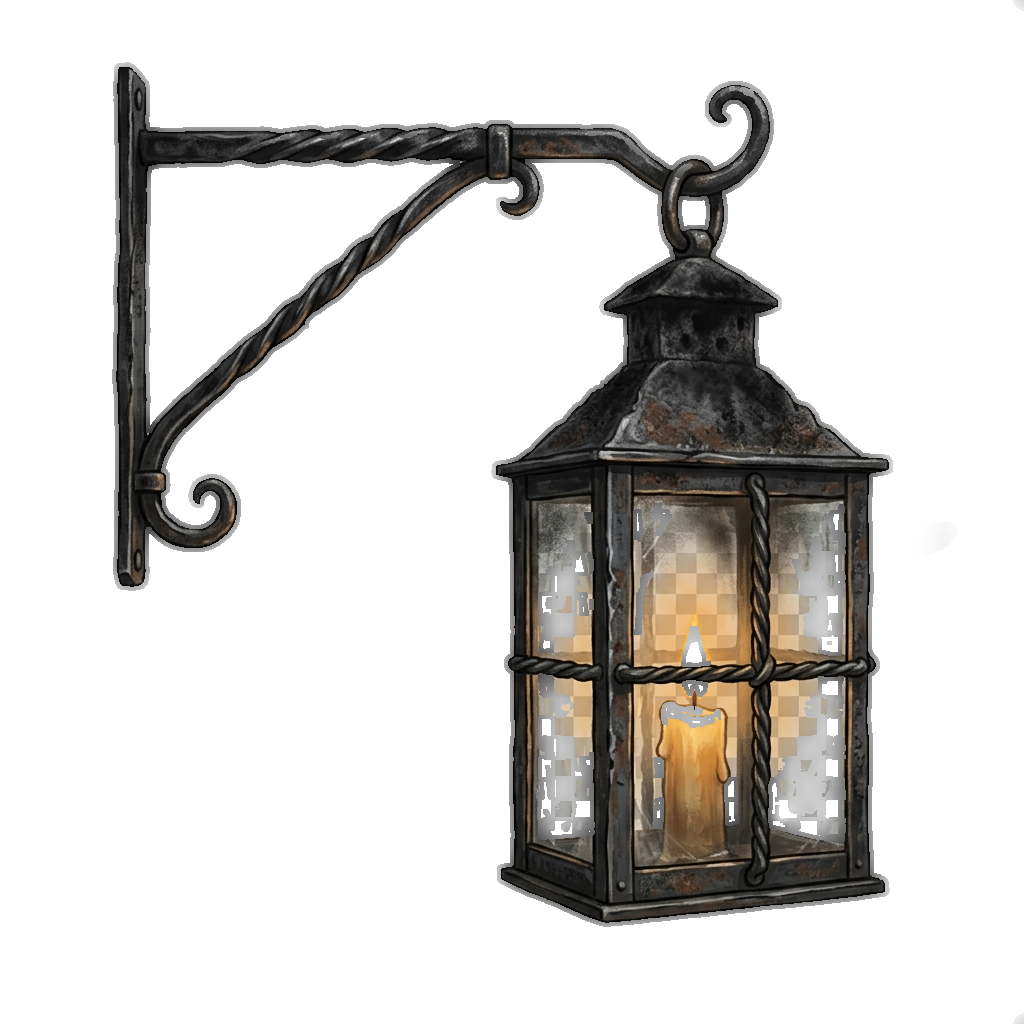
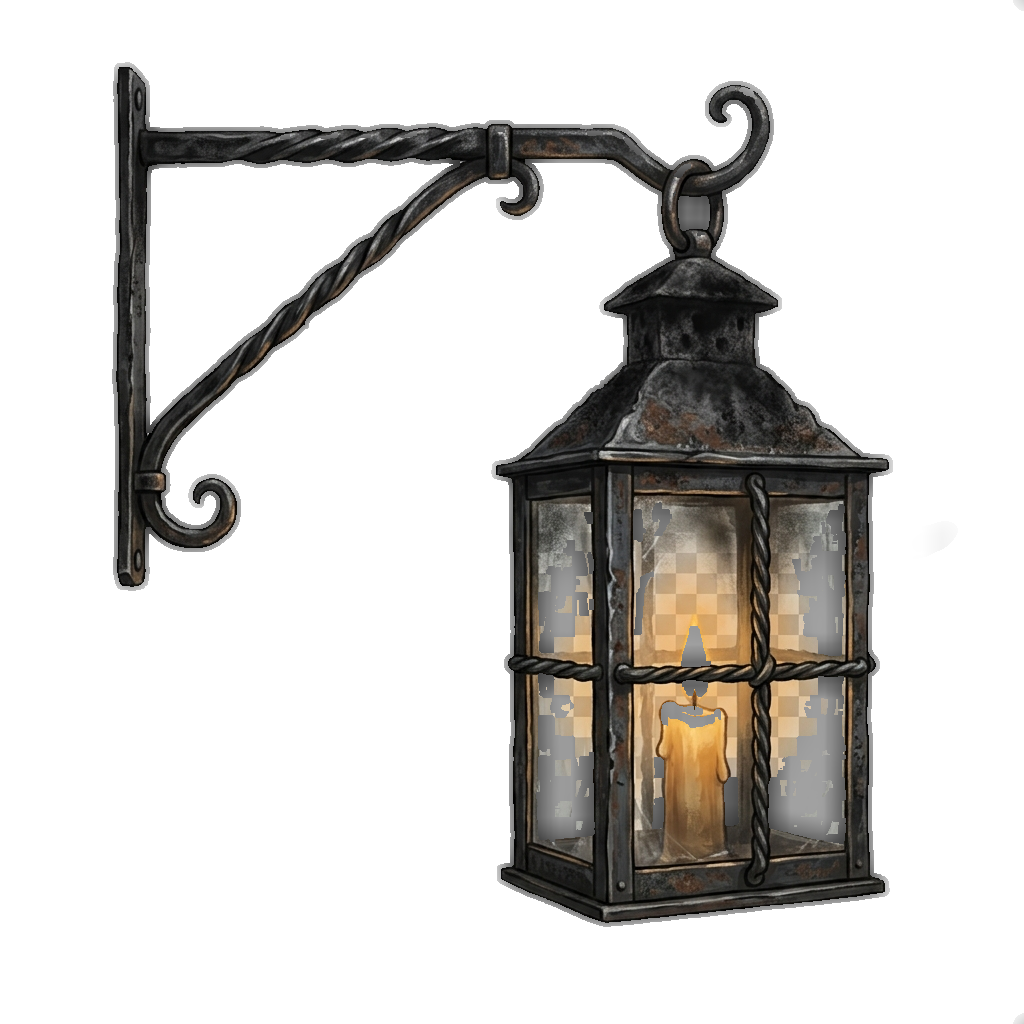
Corrige o z-fighting das fachadas (portas sumindo, janelas piscando) e ajusta lanterna e montanha
A CAUSA DAS PORTAS SUMIDAS E DAS JANELAS PISCANDO ERA A MESMA: o painel de
fachada e os decalques estavam no MESMO afastamento da parede (0,05), então
brigavam pelo mesmo pixel de profundidade. A porta da loja é desenhada depois,
mas empatava com o painel e perdia; a janela empatava e piscava conforme o
ângulo. O painel de fachada é uma PAREDE, não um adorno — agora fica rente
(0,02) e os decalques de verdade (janela, porta, hera, tabuleta) ficam à frente
dele. `addWallDecal` ganhou o recuo como parâmetro.

LANTERNA DE PAREDE: estava do tamanho de uma porta e plantada no meio da parede.
Diminuiu (1,8 → 1,35) e subiu (2,75 → 3,15), e a luz saiu de junto da parede p/
debaixo da luminária, que é de onde ela deveria vir.

O VIDRO DA LANTERNA mostrava o xadrez do fundo pintado — de longe passava por
vidro sujo, mas de perto era claramente um quadriculado. Agora o recorte fecha os
vãos internos da METADE DIREITA da arte (o corpo da luminária) e tira a cor da
média local; o triângulo vazado entre o braço e a mão-francesa fica na metade
esquerda e continua vazado. Sobrou um resto de trama fina no vidro, que lê como
vidro fosco.

MONTANHA PROTUBERANTE: as lascas de rocha do contorno irregular brotavam também
nas células que fazem fronteira com a rua, e na altura do olho — o maciço parecia
desabar por cima da cidade. Agora elas só aparecem nas células de dentro do
maciço, longe da rua.

Claude-Session: https://claude.ai/code/session_013WvcxhCgG4YoQ53hJyUeUZ

diff --git a/grimhollow/src/game/Game.ts b/grimhollow/src/game/Game.ts
@@ -2507,7 +2507,7 @@ export class Game {
           // montantes de madeira subindo dela. Vale p/ toda face de rua, inclusive
           // as de porta (a porta em si é desenhada em buildEstablishments).
           // painel de fachada colado na face (um por face, sem ladrilhar)
-          this.addWallDecal(c, r, dc, dr, facadeMat, CELL, WALL_H, WALL_H / 2);
+          this.addWallDecal(c, r, dc, dr, facadeMat, CELL, WALL_H, WALL_H / 2, 0.02);
           // sem enxaimel de código: a pedra lavrada já traz a cimalha pintada
           this.facadeTrim(c, r, dc, dr, timberMat, plinthMat, hash, false);
           if (porta) continue;
@@ -2525,7 +2525,7 @@ export class Game {
             // luminária pende dele. A arte é vista DE LADO, então o plano fica
             // perpendicular à fachada, como as tabuletas das lojas.
             this.addLanternaParede(c, r, dc, dr, lanternMat);
-            this.glowLight(fx + dc * 0.55, 2.45, fz + dr * 0.55, 0xffb45a, 3.4, 11);
+            this.glowLight(fx + dc * 1.05, 2.85, fz + dr * 1.05, 0xffb45a, 3.4, 11);
             void torchMat;
           } else if (roll < 0.74) {
             this.addWallDecal(c, r, dc, dr, ivyMat, 2.3, 1.5, 1.05);
@@ -2604,15 +2604,17 @@ export class Game {
     // precisa (a) ter a normal AO LONGO da fachada — não apontando p/ ela — e
     // (b) começar encostado na parede e crescer p/ a rua. Na versão anterior eu
     // errei os dois e o braço ficava enterrado na pedra.
-    const L = 1.8;              // avanço sobre a rua
-    const H = 1.8;
+    // menor e mais alta que na 1ª versão: a lanterna ficava do tamanho de uma
+    // porta, plantada no meio da parede
+    const L = 1.35;             // avanço sobre a rua
+    const H = 1.35;
     const pl = new THREE.Mesh(new THREE.PlaneGeometry(L, H), mat);
     // com rotação θ, o +X local vira (cos θ, 0, −sen θ). Quero +X = normal da
     // parede (dc,0,dr), p/ a borda esquerda do desenho encostar nela.
     pl.rotation.y = Math.atan2(-dr, dc);
     const fx = c * CELL + dc * (CELL / 2 + 0.04);
     const fz = r * CELL + dr * (CELL / 2 + 0.04);
-    pl.position.set(fx + dc * (L / 2), 2.75, fz + dr * (L / 2));
+    pl.position.set(fx + dc * (L / 2), 3.15, fz + dr * (L / 2));
     pl.renderOrder = 4;
     this.world.add(pl);
   }
@@ -5360,8 +5362,10 @@ export class Game {
         const box = new THREE.Mesh(new THREE.BoxGeometry(CELL, bh, CELL), mat);
         box.position.set(c * CELL, y0 + bh / 2, r * CELL);
         this.world.add(box);
-        // blocos menores no topo p/ contorno irregular (pico)
-        if (!dungeon && this.mHash(c, r, 2) > 0.35) {
+        // blocos menores no topo p/ contorno irregular (pico). Só BEM NO ALTO:
+        // antes eles brotavam também na altura do olho e o maciço avançava por
+        // cima da rua, como se a montanha estivesse desabando na cidade.
+        if (!dungeon && !bordersStreet(c, r) && this.mHash(c, r, 2) > 0.35) {
           const s = 1.6 + this.mHash(c, r, 3) * 1.8;
           const chunk = new THREE.Mesh(new THREE.BoxGeometry(s, s, s), rockOf(c, r));
           chunk.position.set(
@@ -9855,12 +9859,18 @@ export class Game {
     w: number,
     h: number,
     y: number,
+    // AFASTAMENTO da parede. O PAINEL DE FACHADA é uma parede, não um adorno:
+    // ele tem de ficar rente (0,02). Os decalques de verdade — janela, porta,
+    // hera, tabuleta — ficam à frente dele (0,05+). Quando os dois estavam no
+    // MESMO recuo, brigavam pelo mesmo pixel de profundidade: as janelas piscavam
+    // e as PORTAS DAS LOJAS sumiam atrás do painel.
+    recuo = 0.05,
   ) {
     const plane = new THREE.Mesh(new THREE.PlaneGeometry(w, h), mat);
     plane.position.set(
-      c * CELL + dc * (CELL / 2 + 0.05),
+      c * CELL + dc * (CELL / 2 + recuo),
       y,
-      r * CELL + dr * (CELL / 2 + 0.05),
+      r * CELL + dr * (CELL / 2 + recuo),
     );
     plane.rotation.y =
       dc === 1 ? Math.PI / 2 : dc === -1 ? -Math.PI / 2 : dr === 1 ? 0 : Math.PI;

diff --git a/grimhollow/scripts/prep_city_art.py b/grimhollow/scripts/prep_city_art.py
@@ -68,7 +68,7 @@ def inunda_da_borda(mask: np.ndarray) -> np.ndarray:
     return fora
 
 
-def recorta_xadrez(rgb: np.ndarray) -> tuple[np.ndarray, np.ndarray]:
+def recorta_xadrez(rgb: np.ndarray, vidro_direita: bool = False) -> tuple[np.ndarray, np.ndarray]:
     """
     Transforma o xadrez PINTADO em transparência de verdade.
 
@@ -92,6 +92,7 @@ def recorta_xadrez(rgb: np.ndarray) -> tuple[np.ndarray, np.ndarray]:
     inflariam o desvio e ficariam meio transparentes.
     """
     v = rgb.astype(np.float32).mean(2)
+    vao = None
     b_claro = float(np.median(v[v > 235]))
     b_escuro = float(np.median(v[(v > 165) & (v < 225)]))
     amp = (b_claro - b_escuro) / 2
@@ -122,13 +123,32 @@ def recorta_xadrez(rgb: np.ndarray) -> tuple[np.ndarray, np.ndarray]:
     alpha[alpha < 0.16] = 0.0
     alpha[alpha > 0.90] = 1.0
 
-    # (não fecho os vãos internos: o triângulo entre o braço e a mão-francesa da
-    #  lanterna é vazado de verdade e tem de continuar vazado. O vidro fica com um
-    #  pouco de translucidez, que é o que ele é mesmo.)
+    # VIDRO OPACO — mas só na METADE DIREITA. O xadrez aparece através do vidro no
+    # original, e de perto, no jogo, ele lê como um quadriculado dentro da
+    # lanterna. Fechar TODO vão interno resolveria o vidro e estragaria o
+    # triângulo vazado entre o braço e a mão-francesa, que fica na metade
+    # esquerda — daí a divisão. (Só vale p/ arte que tem corpo à direita; sem
+    # `--vidro` nada disso roda.)
+    if vidro_direita:
+        H2, W2 = alpha.shape
+        dir_ = np.zeros((H2, W2), bool)
+        dir_[:, int(W2 * 0.45):] = True
+        # limiar ALTO: o que interessa é tudo que não é ferro maciço, porque o
+        # xadrez marcou tanto o alfa quanto a COR — os quadrados claros tinham
+        # ficado opacos e continuavam desenhando o quadriculado no vidro.
+        quase = alpha < 0.985
+        vao = dir_ & quase & ~inunda_da_borda(quase)
+        if vao.any():
+            print(f"    vidro fechado: {int(vao.sum())} px")
+            alpha[vao] = 1.0
     a3 = alpha[..., None]
     base = np.where(a3 > 0.02, (lo[..., None] - (1 - a3) * b_med) / np.maximum(a3, 0.02), 0.0)
     # onde é sólido, a cor é a do próprio pixel (a média local borraria o desenho)
     C = np.where(a3 > 0.93, rgb.astype(np.float32), base)
+    # no vidro a cor vem da MÉDIA local, que já é lisa: é ela que apaga a
+    # ondulação do xadrez que sobrava desenhada nos quadrados claros
+    if vidro_direita and vao is not None and vao.any():
+        C = np.where(vao[..., None], lo[..., None] * 0.86, C)
     return np.clip(C, 0, 255).astype(np.uint8), (alpha * 255).astype(np.uint8)
 
 
@@ -208,7 +228,7 @@ def main() -> None:
     rgb, alpha = a[..., :3], a[..., 3]
 
     if "--prop" in sys.argv:
-        rgb, alpha = recorta_xadrez(rgb)
+        rgb, alpha = recorta_xadrez(rgb, "--vidro" in sys.argv)
         op = (alpha > 250).mean() * 100
         meio = ((alpha > 20) & (alpha < 235)).mean() * 100
         print(f"    recorte: {(alpha == 0).mean() * 100:.1f}% transparente, "
